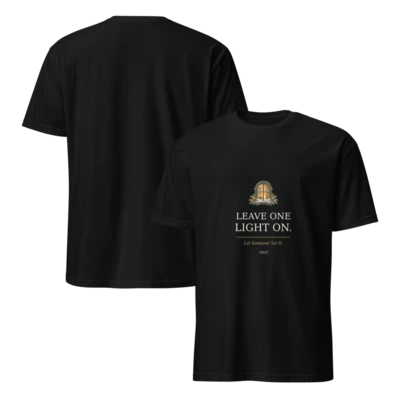
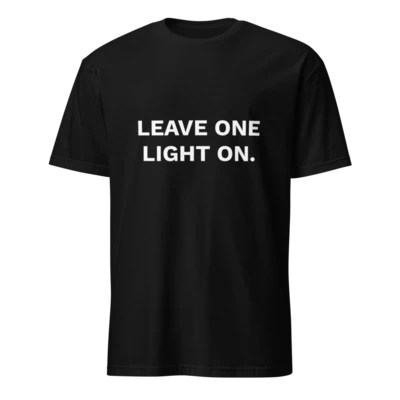
Finalize LOLO merchandise preview and hold Leftovers promotion

Changed region(s): [[0.06, 0.03, 0.96, 0.96], [0.51, 0.18, 0.54, 0.24]]

diff --git a/index.html b/index.html
@@ -4,7 +4,7 @@
 <section class="section-light movement-intro"><div class="narrow"><p class="card-label">One person. One meaningful step.</p><h2>Compassion has somewhere to go.</h2><p>Leave One Light On is a movement of hope and practical compassion. We plant seeds of kindness through stories, trustworthy learning resources, and everyday invitations to care.</p><p>Inspired by the teachings of Jesus, we welcome anyone willing to notice a need and respond with respect. Start with what you have. Let the other person choose what they welcome.</p></div></section>
 <section class="section-navy movement-support"><div class="split"><div><p class="card-label">Support the mission</p><h2>Help the light reach the next person.</h2><p>Financial support helps sustain the work behind the invitation: publishing stories, maintaining accessible resources, and helping people find a practical next step.</p><a class="button" href="/keep-the-light-on.html">Explore financial support</a></div><div class="support-note"><h3>Your support matters.</h3><p>Learn what contributions can support, how LOLO is preparing for responsible stewardship, and where things stand today.</p><a class="text-link light" href="/keep-the-light-on.html#transparency">Read our status and accountability commitments →</a></div></div></section>
 <section class="section-light community-invite"><div class="split"><div><p class="card-label">The Light Board</p><h2>Ordinary kindness deserves to be seen.</h2><p>A kindness received. A moment witnessed. A person who made time. These are the stories that help us notice what we can offer next.</p><div class="button-row"><a class="button" href="/light-board/">Read a Light</a><a class="button button-outline" href="/light-board/share.html">Share your Light</a></div></div><div class="privacy-invite"><h3>Your story. Shared with care.</h3><p>No name or email required. Every submission waits for human review. Leave out identifying details, especially about children.</p><p>Submissions are currently in preparation. The sharing page explains availability and privacy.</p><a href="/light-board/methodology.html">How moderation and privacy work →</a></div></div></section>
-<section class="section-light lolo-merch-coming" id="merchandise" aria-labelledby="merchandise-title"><div class="wide"><div class="section-heading"><p class="card-label">Shop with purpose · Coming soon</p><h2 id="merchandise-title">A little light for everyday life.</h2><p>Meaningful things. A daily invitation. Merchandise purchases generate revenue to help support the LOLO mission after product costs and other expenses.</p><p><strong>In preparation. Nothing is available to purchase yet.</strong> Prices are provisional. Purchases will not be represented as charitable donations.</p></div><div class="merch-grid"><article class="merch-card"><div class="merch-image"><img src="/images/merchandise/classic-tee.webp" alt="Black classic LOLO tee with white lettering" width="300" height="300" loading="lazy"></div><div class="merch-copy"><p class="card-label">Coming soon</p><h3>Classic unisex T-shirt</h3><p>Let Someone See It. A simple everyday invitation.</p><p class="merch-price">$28 <span>provisional retail</span></p></div></article><article class="merch-card"><div class="merch-image"><img src="/images/merchandise/oversized-tee.webp" alt="Black oversized LOLO tee mockup" width="300" height="300" loading="lazy"></div><div class="merch-copy"><p class="card-label">Coming soon</p><h3>Oversized T-shirt</h3><p>Don’t Just Walk Past. A roomy tee with a practical message.</p><p class="merch-price">$38 <span>provisional retail</span></p></div></article><article class="merch-card"><div class="merch-image"><img src="/images/merchandise/hoodie.webp" alt="Forest green LOLO hoodie mockup" width="300" height="300" loading="lazy"></div><div class="merch-copy"><p class="card-label">Coming soon</p><h3>Forest hoodie</h3><p>Notice the Need. A layer of warmth and a reminder to care.</p><p class="merch-price">$48 <span>provisional retail</span></p></div></article><article class="merch-card"><div class="merch-image"><img src="/images/merchandise/mug.webp" alt="White 15 oz LOLO mug mockup" width="300" height="300" loading="lazy"></div><div class="merch-copy"><p class="card-label">Coming soon</p><h3>15 oz ceramic mug</h3><p>A generous cup for coffee, cocoa, and an unhurried conversation.</p><p class="merch-price">$22 <span>provisional retail</span></p></div></article><article class="merch-card"><div class="merch-image"><img src="/images/merchandise/tumbler.webp" alt="White 20 oz LOLO tumbler mockup" width="300" height="300" loading="lazy"></div><div class="merch-copy"><p class="card-label">Coming soon</p><h3>20 oz insulated tumbler</h3><p>Received Light. Shared Light. Carry the invitation into your day.</p><p class="merch-price">$40 <span>provisional retail</span></p></div></article><article class="merch-card"><div class="merch-image"><img src="/images/merchandise/calendar.webp" alt="One Light at a Time 2027 wall calendar mockup" width="300" height="300" loading="lazy"></div><div class="merch-copy"><p class="card-label">Coming soon</p><h3>One Light at a Time — 2027</h3><p>A scenic 11 × 17 inch wall calendar with a monthly invitation to care.</p><p class="merch-price">$32 <span>provisional retail</span></p></div></article></div><p class="source-note">Existing supplier mockups of the saved LOLO designs. Preview colors and placement may differ from the finished product. Final prices, variants, shipping and tax will be confirmed before sales open.</p><a class="text-link" href="/one-light-each-month.html">Until then, find this month’s invitation →</a></div></section><section class="section-light movement-updates"><div class="wide"><p class="card-label">The work taking shape</p><h2>Real stories. An invitation you can use.</h2><div class="update-grid"><article><p class="card-label">Organizational milestone · <time datetime="2026-08-14">August 14, 2026</time></p><h3>A Texas nonprofit takes shape.</h3><p>Leave One Light On was incorporated in Texas. Federal 501(c)(3) recognition has not been obtained.</p><a href="/keep-the-light-on.html#transparency">Where we stand →</a></article><article><p class="card-label">Founder’s reflection</p><h3>Right on Time</h3><p>A helpful voice. A shared laugh. A moment of peace while the answer was still on its way.</p><a href="https://thelightinthewindowbook.com/right-on-time/">Read Ted’s reflection →</a></article><article><p class="card-label">Ongoing invitation</p><h3>One Light Each Month</h3><p>Make room for one small act of care, then notice what stays with you.</p><a href="/one-light-each-month.html">Explore the monthly invitation →</a></article></div><p class="source-note">These are organizational progress and published reflections, not counts of people served or independently verified community outcomes.</p></div></section>
+<section class="section-light lolo-merch-coming" id="merchandise" aria-labelledby="merchandise-title"><div class="wide"><div class="section-heading"><p class="card-label">Shop with purpose</p><h2 id="merchandise-title">A little light for everyday life.</h2><p>Meaningful things. A daily invitation. Merchandise purchases generate revenue to help support the LOLO mission after product costs and other expenses.</p><p><strong>In preparation. Nothing is available to purchase yet.</strong> Prices are provisional. Purchases will not be represented as charitable donations.</p></div><div class="merch-grid"><article class="merch-card"><div class="merch-image"><img src="/images/merchandise/classic-tee.webp" alt="Black classic LOLO tee with white lettering" width="300" height="300" loading="lazy"></div><div class="merch-copy"><h3>Classic unisex T-shirt</h3><p>Leave One Light On. Front message, paired with Let Someone See It on the back.</p><p class="merch-price">$28 <span>provisional retail</span></p></div></article><article class="merch-card"><div class="merch-image"><img src="/images/merchandise/oversized-tee.webp" alt="Black oversized LOLO tee mockup" width="300" height="300" loading="lazy"></div><div class="merch-copy"><h3>Oversized T-shirt</h3><p>Don’t Just Walk Past on the front. Notice the Need on the back.</p><p class="merch-price">$38 <span>provisional retail</span></p></div></article><article class="merch-card"><div class="merch-image"><img src="/images/merchandise/hoodie.webp" alt="Forest green LOLO hoodie mockup" width="300" height="300" loading="lazy"></div><div class="merch-copy"><h3>Forest hoodie</h3><p>Leave One Light On. A forest-green layer with Let Someone See It on the back.</p><p class="merch-price">$48 <span>provisional retail</span></p></div></article><article class="merch-card"><div class="merch-image"><img src="/images/merchandise/mug.webp" alt="White 15 oz LOLO mug mockup" width="300" height="300" loading="lazy"></div><div class="merch-copy"><h3>15 oz ceramic mug</h3><p>One Light Can Change a Life. One 15 oz mug, with a bold everyday reminder.</p><p class="merch-price">$22 <span>provisional retail</span></p></div></article><article class="merch-card"><div class="merch-image"><img src="/images/merchandise/tumbler.webp" alt="White 20 oz LOLO tumbler mockup" width="300" height="300" loading="lazy"></div><div class="merch-copy"><h3>20 oz insulated tumbler</h3><p>Received Light. Shared Light. Carry the invitation into your day.</p><p class="merch-price">$40 <span>provisional retail</span></p></div></article><article class="merch-card"><div class="merch-image"><img src="/images/merchandise/calendar.webp" alt="One Light at a Time 2027 wall calendar mockup" width="300" height="300" loading="lazy"></div><div class="merch-copy"><h3>One Light at a Time — 2027</h3><p>A scenic 11 × 17 inch wall calendar with a monthly invitation to care.</p><p class="merch-price">$32 <span>provisional retail</span></p></div></article></div><p class="source-note">Supplier mockups of LOLO’s private launch designs. Preview colors and placement may differ from the finished product. Final prices, variants, shipping and tax will be confirmed before sales open.</p><a class="text-link" href="/one-light-each-month.html">Until then, find this month’s invitation →</a></div></section><section class="section-light movement-updates"><div class="wide"><p class="card-label">The work taking shape</p><h2>Real stories. An invitation you can use.</h2><div class="update-grid"><article><p class="card-label">Organizational milestone · <time datetime="2026-08-14">August 14, 2026</time></p><h3>A Texas nonprofit takes shape.</h3><p>Leave One Light On was incorporated in Texas. Federal 501(c)(3) recognition has not been obtained.</p><a href="/keep-the-light-on.html#transparency">Where we stand →</a></article><article><p class="card-label">Founder’s reflection</p><h3>Right on Time</h3><p>A helpful voice. A shared laugh. A moment of peace while the answer was still on its way.</p><a href="https://thelightinthewindowbook.com/right-on-time/">Read Ted’s reflection →</a></article><article><p class="card-label">Ongoing invitation</p><h3>One Light Each Month</h3><p>Make room for one small act of care, then notice what stays with you.</p><a href="/one-light-each-month.html">Explore the monthly invitation →</a></article></div><p class="source-note">These are organizational progress and published reflections, not counts of people served or independently verified community outcomes.</p></div></section>
 <section class="section-light founding-bridge"><div class="split"><img src="/images/books/light-in-the-window.jpg" alt="The Light in the Window by Theodore Johnson book cover" width="220" height="330" loading="lazy"><div><p class="card-label">The welcome that became a movement</p><h2>They made room. The light stayed with him.</h2><p>Peg and Jerry Gorman welcomed Ted into their family and kept showing up. Their compassion became a lasting example of what one open door can mean.</p><p><em>The Light in the Window</em> tells that founding story. Leave One Light On carries its invitation forward: notice someone, make room, take one meaningful step.</p><a class="text-link" href="https://thelightinthewindowbook.com/the-story/">Read the full founding story →</a></div></div></section><details class="movement-library"><summary>Explore more stories, research and ways to help</summary><section class="section-light release-intro"><div class="wide"><h2>People are more than the barriers in front of them.</h2><p class="release-intro-copy">We explore learning, belonging, opportunity, and practical compassion—from foster care and reading barriers to education, work, health, and second chances.</p><div class="intent-grid"><a class="intent-card" href="/begin-here.html"><strong>I'm new here</strong><small>Understand what this is and where to begin.</small></a><a class="intent-card" href="/research.html"><strong>I want to learn</strong><small>Explore lived experience, research, and trustworthy resources.</small></a><a class="intent-card" href="/where-might-you-leave-one-light-on.html"><strong>I want to help</strong><small>Find a next step that fits what you can offer.</small></a><a class="intent-card" href="/looking-for-hope.html"><strong>I need help or hope</strong><small>Find trusted resources and a place to begin.</small></a></div></div></section>
 <section class="section-navy"><div class="split"><div><h2>The Gift I Cannot Give</h2><p>What happens when compassion meets a limitation we cannot change? A reflection on living with one kidney, organ donation, hope, and what we can still give.</p><a class="button" href="/research/the-gift-i-cannot-give.html">Read the Cornerstone</a></div><blockquote>Compassion does not end where our limitations begin.</blockquote></div></section>
 <section class="section-light"><div class="wide"><h2>There is more than one faithful next step.</h2><p class="release-intro-copy">Learn. Mentor. Support a family. Encourage a learner. Share a skill. Open a door to work. Give blood. Explore donation. Pray. Share. Give. Choose what fits your capacity.</p><a class="button" href="/where-might-you-leave-one-light-on.html">Explore the Pathways</a></div></section>

diff --git a/one-light-each-month.html b/one-light-each-month.html
@@ -86,12 +86,7 @@
 <div class="light-narrow">
 <h2>Remember a kindness. Make room for one more.</h2>
 <p>Someone’s patience, welcome, or encouragement may have stayed with you for years. Remember that moment—and consider one small way to pass that care along.</p>
-<article class="light-story">
-<p class="light-kicker">A Thanksgiving parable · Fiction</p>
-<h3>The Leftovers</h3>
-<p>There was enough food for another table. But carrying a plate next door meant crossing more than a yard.</p>
-<a href="https://thelightinthewindowbook.com/the-leftovers/">Read The Leftovers →</a>
-</article>
+
 <div class="light-invitation">
 <h3>Notice one person. Take one meaningful step.</h3>
 <p>Thank someone who helped you. Ask a neighbor if they would welcome a plate. Give someone time to finish what they’re saying.</p>
